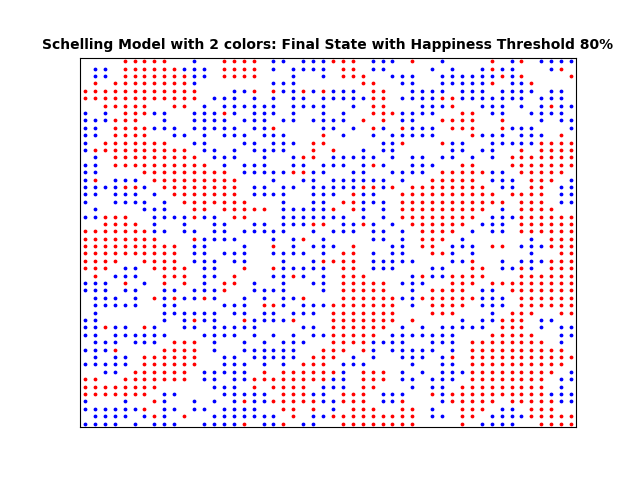
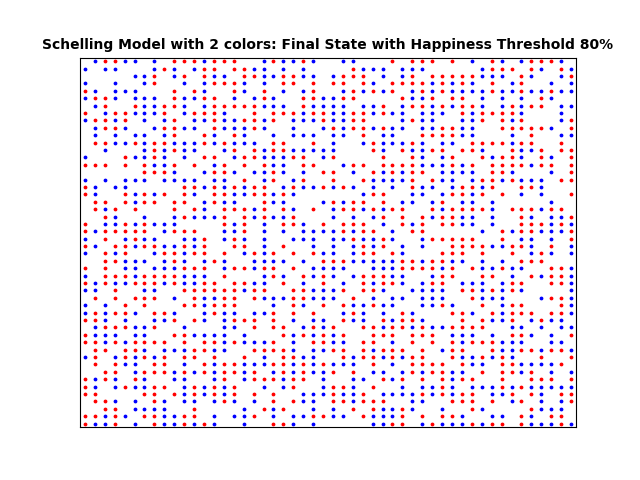
Fiexed error, taking forever to iterate

Changed region(s): [[0.125, 0.125, 0.9062, 0.9062]]

diff --git a/Segregation.py b/Segregation.py
@@ -140,12 +140,10 @@ class Schelling:
         for i in range(self.n_iterations):
             self.old_agents = copy.deepcopy(self.agents)
             n_changes = 0
-
             for agent in self.old_agents:
                 swap_attempts = 0
 
                 while swap_attempts < max_swap_attempts and self.is_unsatisfied(agent[0], agent[1]):
-                    print(f'Swap attempts: {swap_attempts}')
                     agent_color = self.agents[agent]
                     empty_house = random.choice(self.empty_houses)
 
@@ -208,54 +206,56 @@ class Schelling:
     def calculate_similarity(self, x, y):
         count_similar = 0
         count_different = 0
-        color = self.agents[(x, y)]
+        color = self.agents.get((x, y))
 
-        for agent_x, agent_y in self.agents:
-            if (agent_x, agent_y) != (x, y):
-                agent_color = self.agents[(agent_x, agent_y)]
-                if (agent_x - 1, agent_y - 1) not in self.empty_houses and self.agents.get((agent_x - 1, agent_y - 1)) == color:
-                    count_similar += 1
-                elif (agent_x - 1, agent_y - 1) not in self.empty_houses and self.agents.get((agent_x - 1, agent_y - 1)) != color:
-                    count_different += 1
-            if y > 0 and (x, y - 1) not in self.empty_houses:
-                if self.agents[(x, y - 1)] == color:
-                    count_similar += 1
-                else:
-                    count_different += 1
-            if x < (self.width - 1) and y > 0 and (x + 1, y - 1) not in self.empty_houses:
-                if self.agents[(x + 1, y - 1)] == color:
-                    count_similar += 1
-                else:
-                    count_different += 1
-            if x > 0 and (x - 1, y) not in self.empty_houses:
-                if self.agents[(x - 1, y)] == color:
-                    count_similar += 1
-                else:
-                    count_different += 1
-            if x < (self.width - 1) and (x + 1, y) not in self.empty_houses:
-                if self.agents[(x + 1, y)] == color:
-                    count_similar += 1
-                else:
-                    count_different += 1
-            if x > 0 and y < (self.height - 1) and (x - 1, y + 1) not in self.empty_houses:
-                if self.agents[(x - 1, y + 1)] == color:
-                    count_similar += 1
-                else:
-                    count_different += 1
-            if x > 0 and y < (self.height - 1) and (x, y + 1) not in self.empty_houses:
-                if self.agents[(x, y + 1)] == color:
-                    count_similar += 1
-                else:
-                    count_different += 1
-            if x < (self.width - 1) and y < (self.height - 1) and (x + 1, y + 1) not in self.empty_houses:
-                if self.agents[(x + 1, y + 1)] == color:
-                    count_similar += 1
-                else:
-                    count_different += 1
-        try:
-            return float(count_similar) / (count_similar + count_different)
-        except ZeroDivisionError:
-            return 1
+        if color is not None:
+            for (agent_x, agent_y), agent_color in self.agents.items():
+                if (agent_x, agent_y) != (x, y):
+                    if (agent_x - 1, agent_y - 1) not in self.empty_houses and self.agents.get((agent_x - 1, agent_y - 1)) == color:
+                        count_similar += 1
+                    elif (agent_x - 1, agent_y - 1) not in self.empty_houses and self.agents.get((agent_x - 1, agent_y - 1)) != color:
+                        count_different += 1
+                if y > 0 and (x, y - 1) not in self.empty_houses:
+                    if self.agents[(x, y - 1)] == color:
+                        count_similar += 1
+                    else:
+                        count_different += 1
+                if x < (self.width - 1) and y > 0 and (x + 1, y - 1) not in self.empty_houses:
+                    if self.agents[(x + 1, y - 1)] == color:
+                        count_similar += 1
+                    else:
+                        count_different += 1
+                if x > 0 and (x - 1, y) not in self.empty_houses:
+                    if self.agents[(x - 1, y)] == color:
+                        count_similar += 1
+                    else:
+                        count_different += 1
+                if x < (self.width - 1) and (x + 1, y) not in self.empty_houses:
+                    if self.agents[(x + 1, y)] == color:
+                        count_similar += 1
+                    else:
+                        count_different += 1
+                if x > 0 and y < (self.height - 1) and (x - 1, y + 1) not in self.empty_houses:
+                    if self.agents[(x - 1, y + 1)] == color:
+                        count_similar += 1
+                    else:
+                        count_different += 1
+                if x > 0 and y < (self.height - 1) and (x, y + 1) not in self.empty_houses:
+                    if self.agents[(x, y + 1)] == color:
+                        count_similar += 1
+                    else:
+                        count_different += 1
+                if x < (self.width - 1) and y < (self.height - 1) and (x + 1, y + 1) not in self.empty_houses:
+                    if self.agents[(x + 1, y + 1)] == color:
+                        count_similar += 1
+                    else:
+                        count_different += 1
+            try:
+                return float(count_similar) / (count_similar + count_different)
+            except ZeroDivisionError:
+                return 1
+        else:
+            return 0
 
 
 def main():
